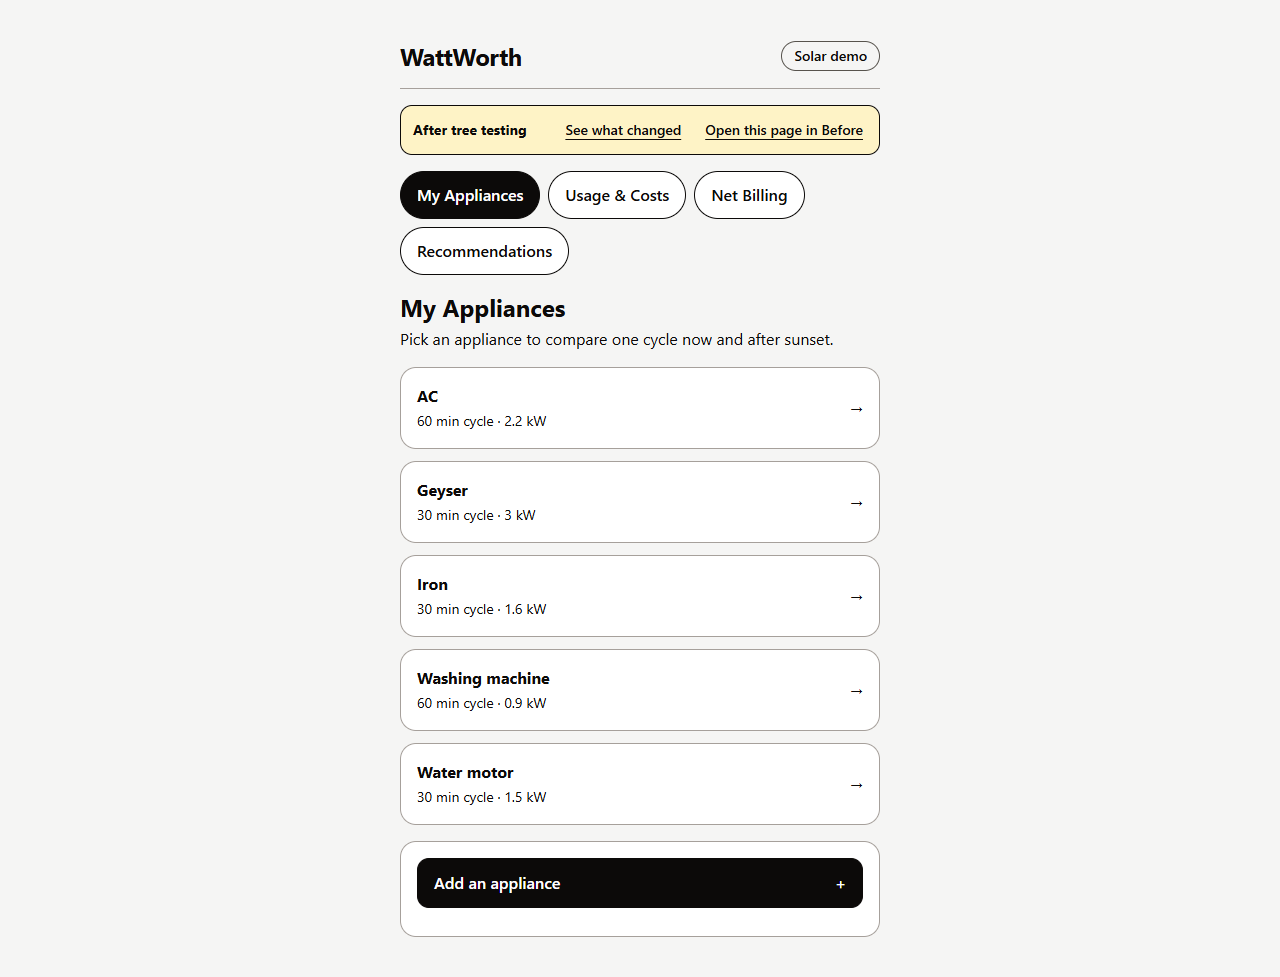
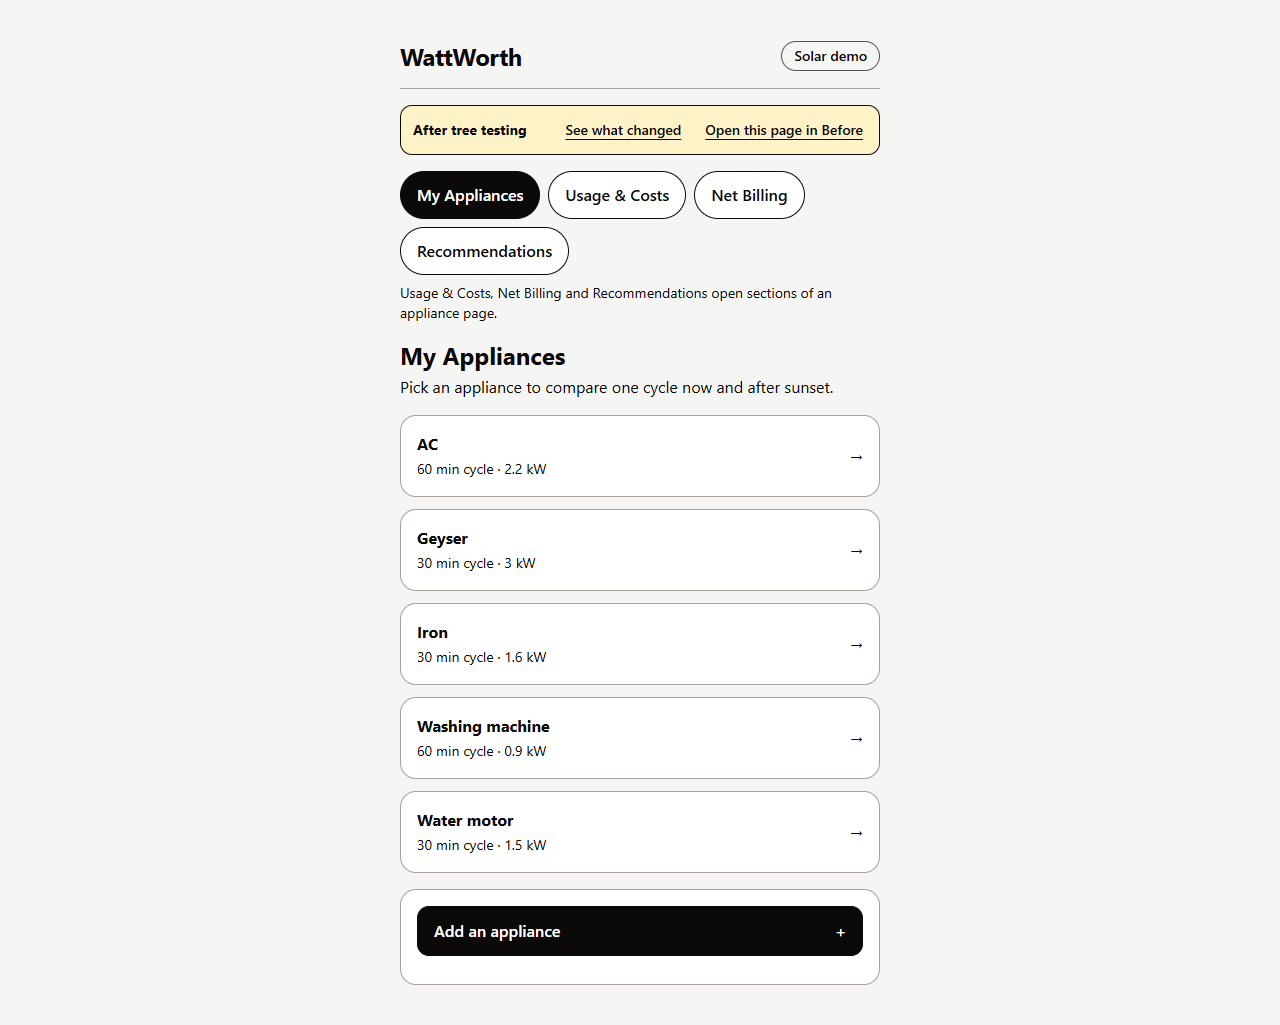
docs: demo polish notes and new screenshots

diff --git a/docs/before-after.md b/docs/before-after.md
@@ -29,5 +29,13 @@ More: [`/changes`](before-after/05-changes.png), [AC page After with the stale r
 
 ## Checks run
 
-- Type check (`tsc`) and `next build` pass. There is no lint script in this repo, so lint was not run.
-- In a browser: Before screens are unchanged apart from the new "See what changed after tree testing" button on the home page. Every After nav item scrolls to its section or shows "Not built in this demo". `v=after` is kept through the plan form and the demo reading links.
+- Type check (`tsc`), `next build` and `npm test` pass. There is no lint script in this repo, so lint was not run.
+- In a browser: Before screens are unchanged apart from the new "See what changed after tree testing" button on the home page. Each After nav item lands on a visible, labeled section. `v=after` is kept through the plan form and the demo reading links.
+- `/changes` checked at 1280 px and 390 px wide: no sideways scroll. On phones each row stacks as a card instead of a table. See [desktop](before-after/08-changes-desktop.png) and [phone](before-after/08-changes-phone.png).
+- Console on `/`, `/?v=after`, `/cost/ac`, `/cost/ac?v=after` and `/changes`: no errors except a 404 for `/favicon.ico`, because the app has no favicon.
+
+## Demo polish changes
+
+- After AC page: added a labeled "Usage & Costs" section showing the existing solar, home use and grid draw readings. The menu item Usage & Costs jumps to it. No new data or logic.
+- Menu wording: only My Appliances is its own screen. Usage & Costs, Net Billing and Recommendations open sections of the appliance page. The home menu and `/changes` now say this.
+- Next.js upgraded from 16.4.4 to 16.4.6 (same minor, security patch). Build, type check and tests still pass.
